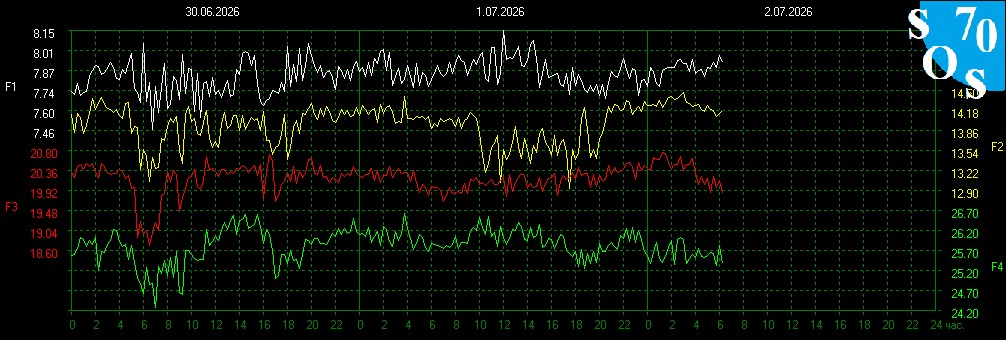
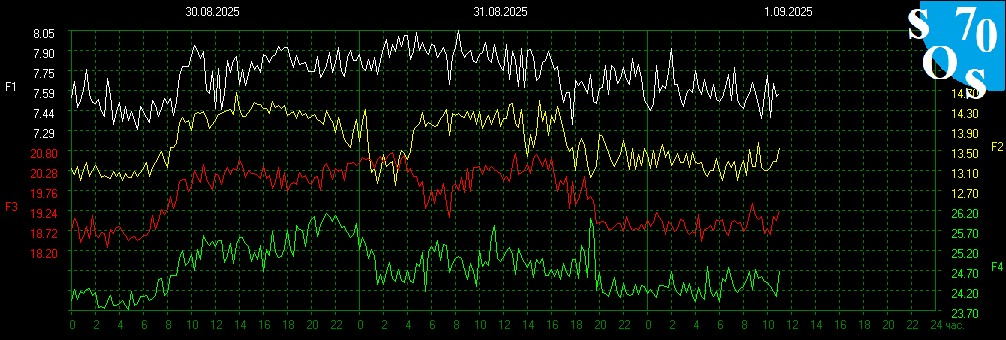
schumann v6.1: 軸目盛り OCR で動的キャリブレーション (太鼓判)
- 軸レンジは自動スケーリングされることが判明 (今朝 8.15-7.46 → 現在 8.05-7.29)
  → 静的キャリブレーションでは約 +0.3Hz の静かな誤読が発生していた
- digit_templates.json: 実画像から抽出した 0-9 の字形テンプレート
- 右端揃え固定ピッチでセルを切り出しテンプレート照合 (小数点検出不要)
- 回帰フィット + 外れ値除去 (ロゴ被りの誤読ラベルを自動排除)
- OCR 失敗時は静的値フォールバック (信頼度上限60 + notes 明記)
- 検証: 新旧両方の軸レンジ・両ミラーで正読を確認

diff --git a/fetch_schumann_v6.py b/fetch_schumann_v6.py
@@ -46,13 +46,137 @@ PLOT_X0, PLOT_X1 = 71, 935
 PLOT_Y0, PLOT_Y1 = 30, 310
 DAY_PX = 288  # 24時間
 
-# 縦軸キャリブレーション: (基準y, 基準Hz, 100pxあたりHz)
+# 縦軸キャリブレーション (静的フォールバック用): (基準y, 基準Hz, 100pxあたりHz)
+# ★注意: 軸レンジは観測データに応じて自動スケーリングされる (2026-07-02 に実測確認)。
+#   通常は下の OCR (ocr_axis_calibration) が毎回動的に導出し、これは OCR 失敗時の保険。
 CALIB = {
     "F1": (30, 8.15, 0.69),
     "F2": (90, 14.50, 1.60),
     "F3": (150, 20.80, 2.20),
     "F4": (210, 26.70, 2.50),
 }
+
+# 軸ラベル OCR: 目盛り数字 (固定ビットマップフォント) をテンプレート照合で読む
+# digit_templates.json = 実画像から抽出した 0-9 の字形 (9x6 二値ビットマップ、複数バリアント)
+TEMPLATE_FILE = Path(__file__).with_name("digit_templates.json")
+LABEL_X = {"F1": (25, 69), "F3": (25, 69), "F2": (941, 992), "F4": (941, 992)}
+
+
+def load_templates():
+    try:
+        data = json.loads(TEMPLATE_FILE.read_text())
+        return {ch: [np.array([[int(c) for c in row] for row in t], np.uint8)
+                     for t in ts] for ch, ts in data.items()}
+    except Exception as e:
+        print(f"! digit templates unavailable: {e}")
+        return None
+
+
+def label_masks(arr):
+    """軸ラベル読み取り用の緩い色マスク (JPEG 劣化に耐性)"""
+    r = arr[:, :, 0].astype(int)
+    g = arr[:, :, 1].astype(int)
+    b = arr[:, :, 2].astype(int)
+    return {
+        "F1": (np.minimum(np.minimum(r, g), b) > 110),
+        "F2": (r > 140) & (g > 140) & ((g - b) > 50),
+        "F3": (r > 110) & ((r - g) > 60) & ((r - b) > 60),
+        "F4": (g > 110) & ((g - r) > 60) & ((g - b) > 60),
+    }
+
+
+def _label_rows(mask, x0, x1):
+    sub = mask[:, x0:x1]
+    rows = np.where(sub.sum(axis=1) >= 2)[0]
+    out = []
+    if len(rows):
+        s = rows[0]; p = rows[0]
+        for y in rows[1:]:
+            if y - p > 2:
+                out.append((s, p)); s = y
+            p = y
+        out.append((s, p))
+    return [(s, e) for s, e in out if 5 <= e - s <= 11 and 24 <= s <= 316]
+
+
+def _cell_canon(mask, y0, y1, cx):
+    cell = mask[y0:y1 + 1, cx:cx + 5]
+    ys, xs = np.where(cell)
+    if len(ys) == 0:
+        return None
+    gl = cell[ys.min():ys.max() + 1, xs.min():xs.max() + 1]
+    c = np.zeros((9, 6), np.uint8)
+    c[:min(9, gl.shape[0]), :min(6, gl.shape[1])] = gl[:9, :6]
+    return c
+
+
+def _read_label(mask, y0, y1, x0, x1, templates):
+    """1行のラベルを読む。数字は右端揃え 6px ピッチなので
+    右端から固定オフセットでセルを切る (小数点の検出は不要)。"""
+    sub = mask[y0:y1 + 1, x0:x1]
+    cols = np.where(sub.sum(axis=0) > 0)[0]
+    if len(cols) == 0:
+        return None
+    xe = x0 + int(cols.max())
+    digs = []
+    for cx in [xe - 25, xe - 19, xe - 10, xe - 4]:
+        c = _cell_canon(mask, y0, y1, cx)
+        if c is None:
+            digs.append(None)
+            continue
+        best, bd = None, 99
+        for ch, ts in templates.items():
+            for t in ts:
+                d = int((c != t).sum())
+                if d < bd:
+                    bd, best = d, ch
+        digs.append(best if bd <= 6 else "?")
+    ds = [d for d in digs if d]
+    if "?" in ds:
+        return None
+    if len(ds) == 4:
+        return float(ds[0] + ds[1] + "." + ds[2] + ds[3])
+    if len(ds) == 3:
+        return float(ds[0] + "." + ds[1] + ds[2])
+    return None
+
+
+def ocr_axis_calibration(arr, templates):
+    """目盛りラベルを OCR し、軸ごとに線形フィット (外れ値除去つき) で
+    キャリブレーションを導出する。返り値: {mode: (y0, v0, span100) or None}"""
+    if templates is None:
+        return {}
+    lm = label_masks(arr)
+    result = {}
+    for key, (x0, x1) in LABEL_X.items():
+        pts = []
+        for ys, ye in _label_rows(lm[key], x0, x1):
+            val = _read_label(lm[key], ys, ye, x0, x1, templates)
+            if val is None:
+                continue
+            center = (ys + ye) / 2 - 3          # ラベル中心はグリッド線の約3px下
+            grid_y = round((center - PLOT_Y0) / 20) * 20 + PLOT_Y0
+            if abs(center - grid_y) > 4:
+                continue
+            pts.append((float(grid_y), val))
+        # 線形フィット + 外れ値除去 (ロゴ被り等の誤読はステップが合わず residual が大きい)
+        calib = None
+        pts_work = list(pts)
+        while len(pts_work) >= 4:
+            ys_a = np.array([p[0] for p in pts_work])
+            vs_a = np.array([p[1] for p in pts_work])
+            A = np.vstack([ys_a, np.ones(len(ys_a))]).T
+            (slope, intercept), res = np.linalg.lstsq(A, vs_a, rcond=None)[0], None
+            resid = np.abs(vs_a - (slope * ys_a + intercept))
+            if resid.max() <= 0.03:
+                if slope < 0:  # 上が大きい値のはず
+                    calib = (PLOT_Y0, slope * PLOT_Y0 + intercept, -slope * 100)
+                break
+            pts_work.pop(int(resid.argmax()))
+        result[key] = calib
+        pretty = f"y{PLOT_Y0}={calib[1]:.3f}Hz, {calib[2]:.3f}Hz/100px" if calib else "FAILED"
+        print(f"  OCR calib {key}: {len(pts)} labels -> {pretty}")
+    return result
 # 物理的にありえる帯域 (外れたら誤読としてリジェクト)
 SANE_BAND = {
     "F1": (6.8, 9.2),
@@ -117,13 +241,17 @@ def verify_layout(arr):
     return problems
 
 
-def extract_modes(arr):
+def extract_modes(arr, ocr_calib=None):
     """右端 (最新) の各モード周波数をピクセルから読み取る"""
     masks = color_masks(arr)
     now_utc = datetime.datetime.now(datetime.timezone.utc)
     results = {}
     latest_x = None
     for key, mask in masks.items():
+        cal = (ocr_calib or {}).get(key)
+        used_ocr = cal is not None
+        if cal is None:
+            cal = CALIB[key]
         m = mask.copy()
         # プロット領域内だけ見る
         m[:PLOT_Y0 + 1, :] = False
@@ -146,7 +274,7 @@ def extract_modes(arr):
             if len(yy):
                 ys.append(float(np.median(yy)))
         y = float(np.median(ys))
-        y0, v0, span = CALIB[key]
+        y0, v0, span = cal
         hz = v0 - (y - y0) * span / 100.0
         lo, hi = SANE_BAND[key]
         if not (lo <= hz <= hi):
@@ -165,14 +293,16 @@ def extract_modes(arr):
         ) - datetime.timedelta(days=days_back)
         data_time = day_start_tomsk + datetime.timedelta(hours=hour) - tomsk_offset
         stale_min = max(0.0, (now_utc - data_time).total_seconds() / 60)
-        # 信頼度: ピクセル読み取りは決定論的に高いが、古いデータは減点
-        conf = 95
+        # 信頼度: OCR で軸を検証できた場合は高い。静的フォールバック時は
+        # 軸が変わっている可能性があるので上限 60。古いデータはさらに減点。
+        conf = 95 if used_ocr else 60
         if stale_min > 60:
-            conf = max(30, 95 - int((stale_min - 60) / 30) * 10)
+            conf = max(30, conf - int((stale_min - 60) / 30) * 10)
         results[key] = {
             "hz": round(hz, 2),
             "confidence": conf,
             "data_age_min": round(stale_min),
+            "calibration": "ocr" if used_ocr else "static-fallback",
         }
         if latest_x is None or xr > latest_x:
             latest_x = xr
@@ -197,7 +327,11 @@ def build_notes(modes):
              if (modes.get(k, {}).get("data_age_min") or 0) > 120]
     if stale:
         parts.append(f"{'・'.join(stale)}は2時間以上更新なし")
-    parts.append("ピクセル解析による決定論的読み取り")
+    fallback = [k for k in ("F1", "F2", "F3", "F4")
+                if modes.get(k, {}).get("calibration") == "static-fallback"]
+    if fallback:
+        parts.append(f"{'・'.join(fallback)}は軸OCR失敗のため参考値")
+    parts.append("軸目盛りOCR検証つきピクセル解析")
     return "。".join(parts) + "。"
 
 
@@ -264,7 +398,9 @@ def main():
         })
         return
 
-    modes = extract_modes(arr)
+    templates = load_templates()
+    ocr_calib = ocr_axis_calibration(arr, templates)
+    modes = extract_modes(arr, ocr_calib)
     for k, v in modes.items():
         print(f"  {k}: {v}")
 
@@ -288,7 +424,7 @@ def main():
         "status": "ok",
         "source_line": line_url,
         "source_spectro": spectro_url,
-        "model": "pixel-extraction-v6",
+        "model": "pixel-extraction-v6.1-ocr",
         "modes": modes_out,
         "amplitude_level": "unknown",
         "strongest_mode": strongest,